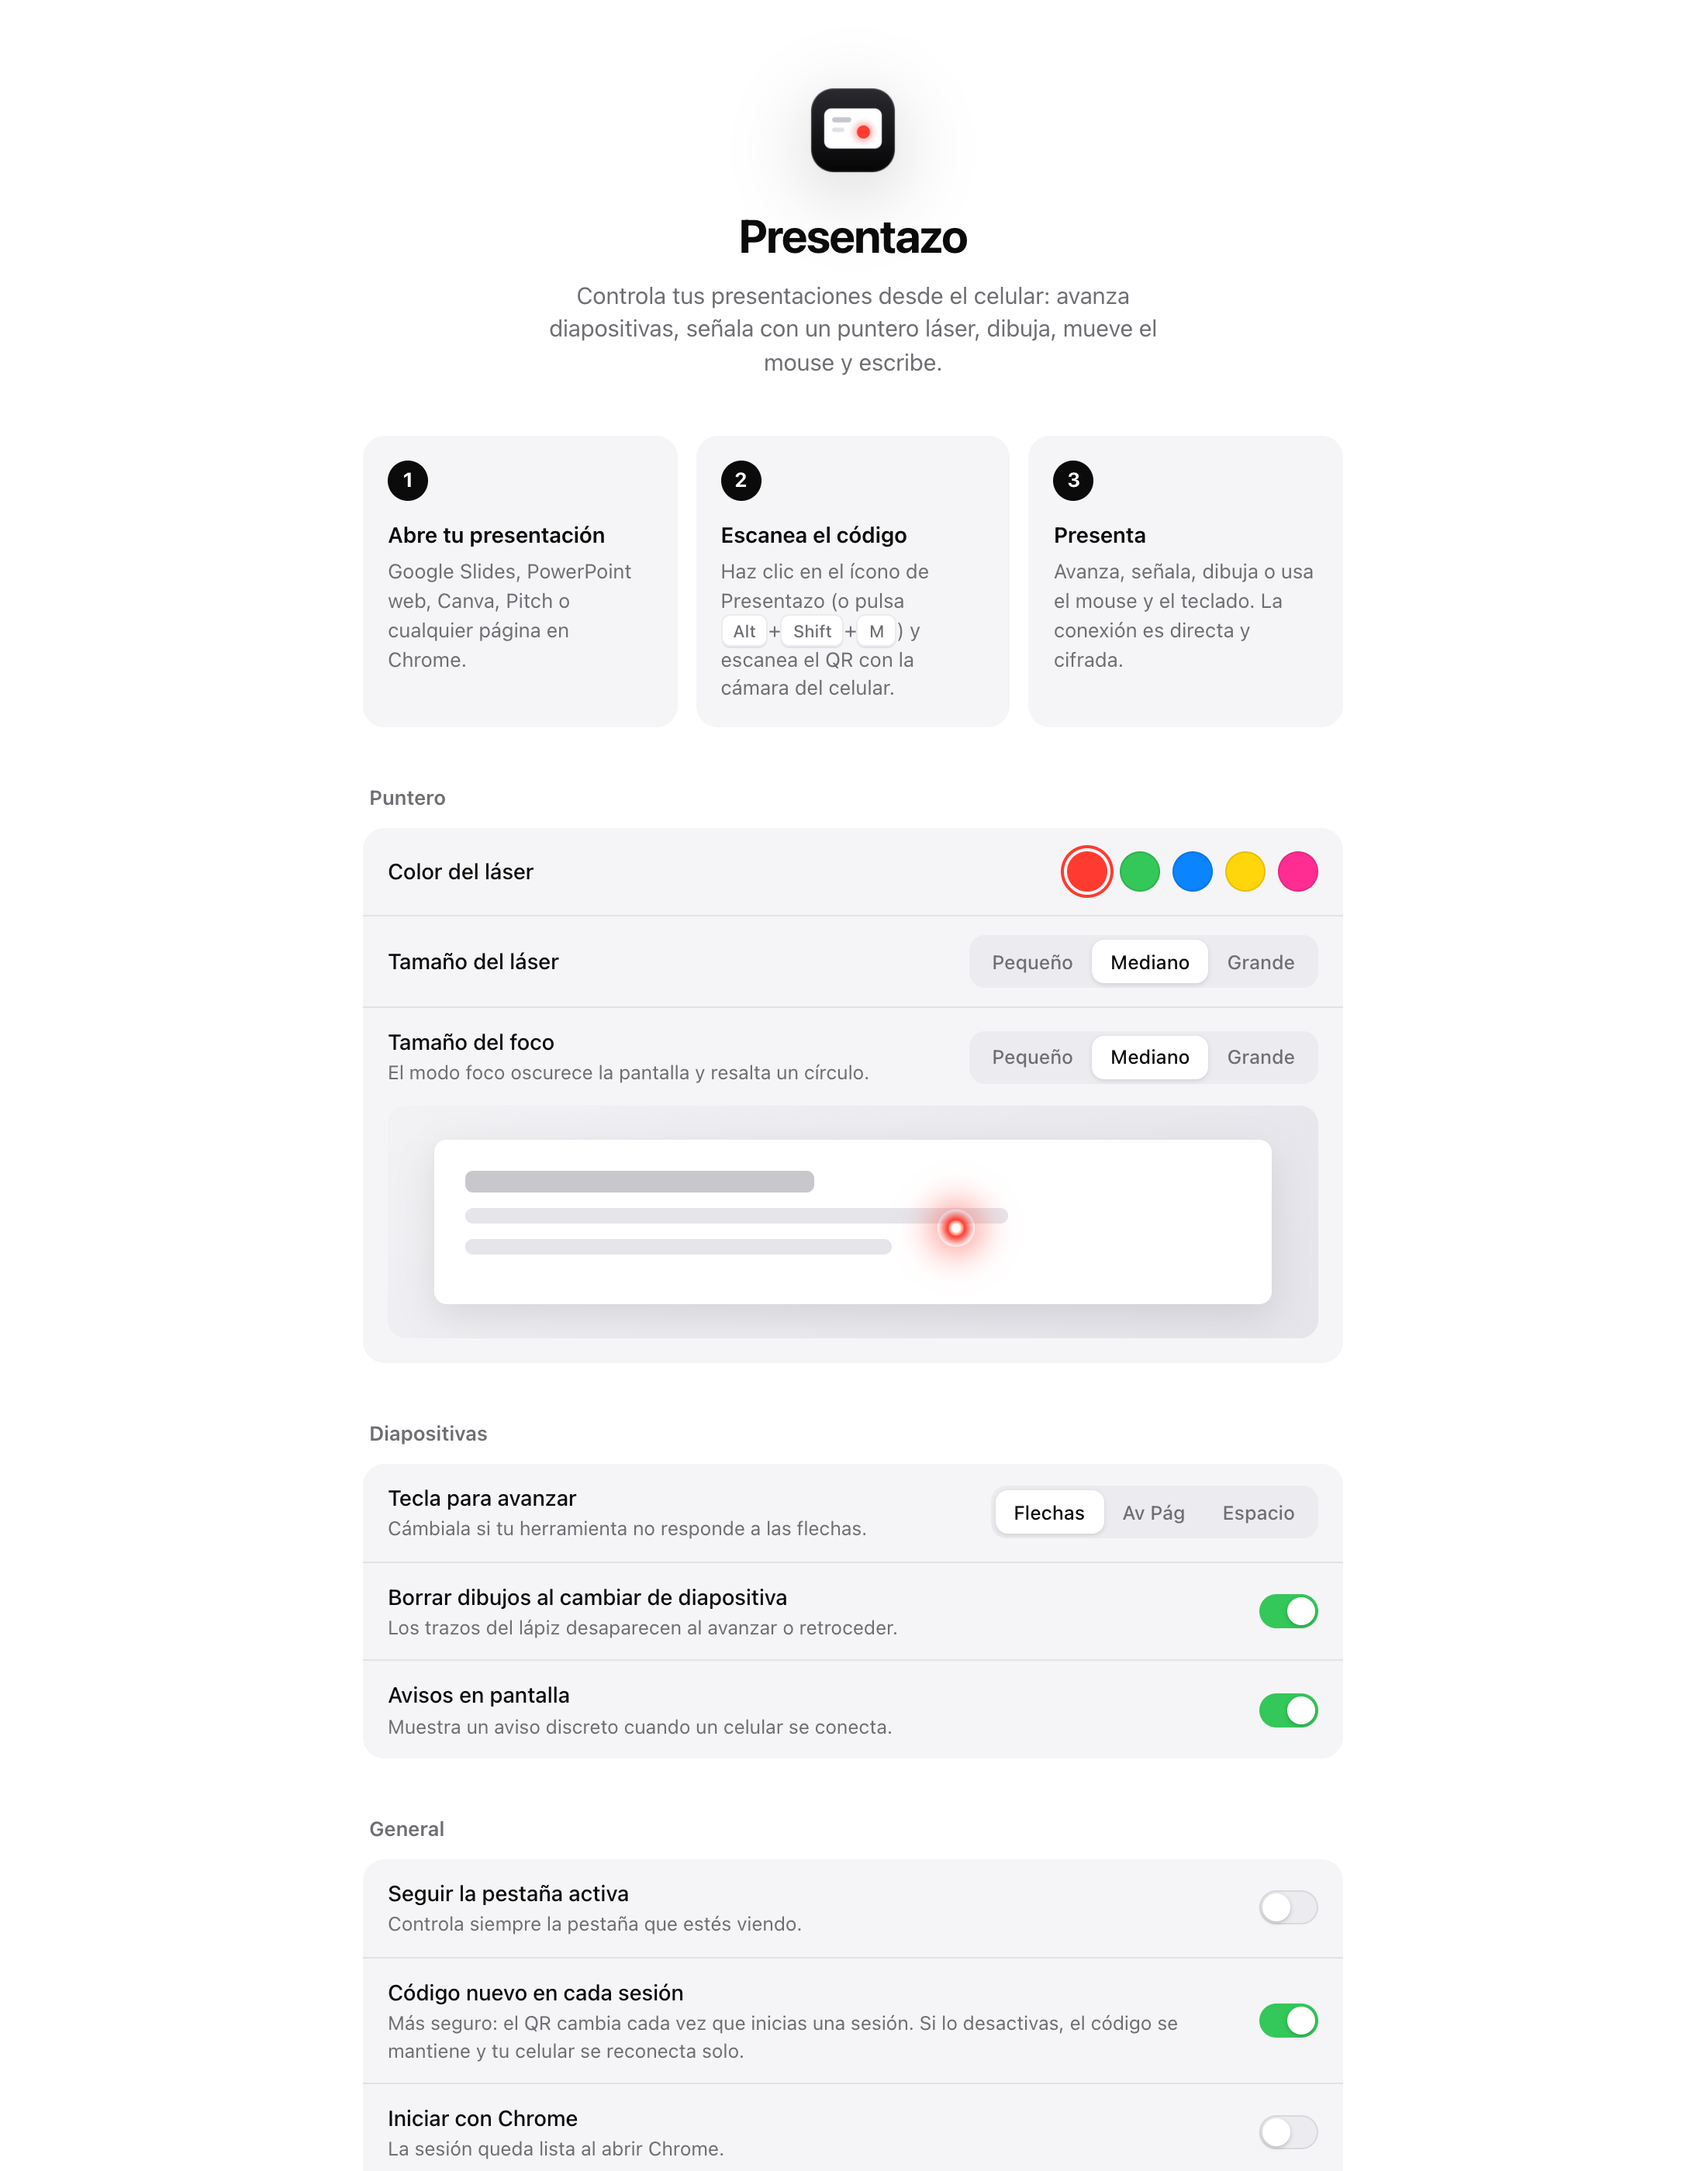
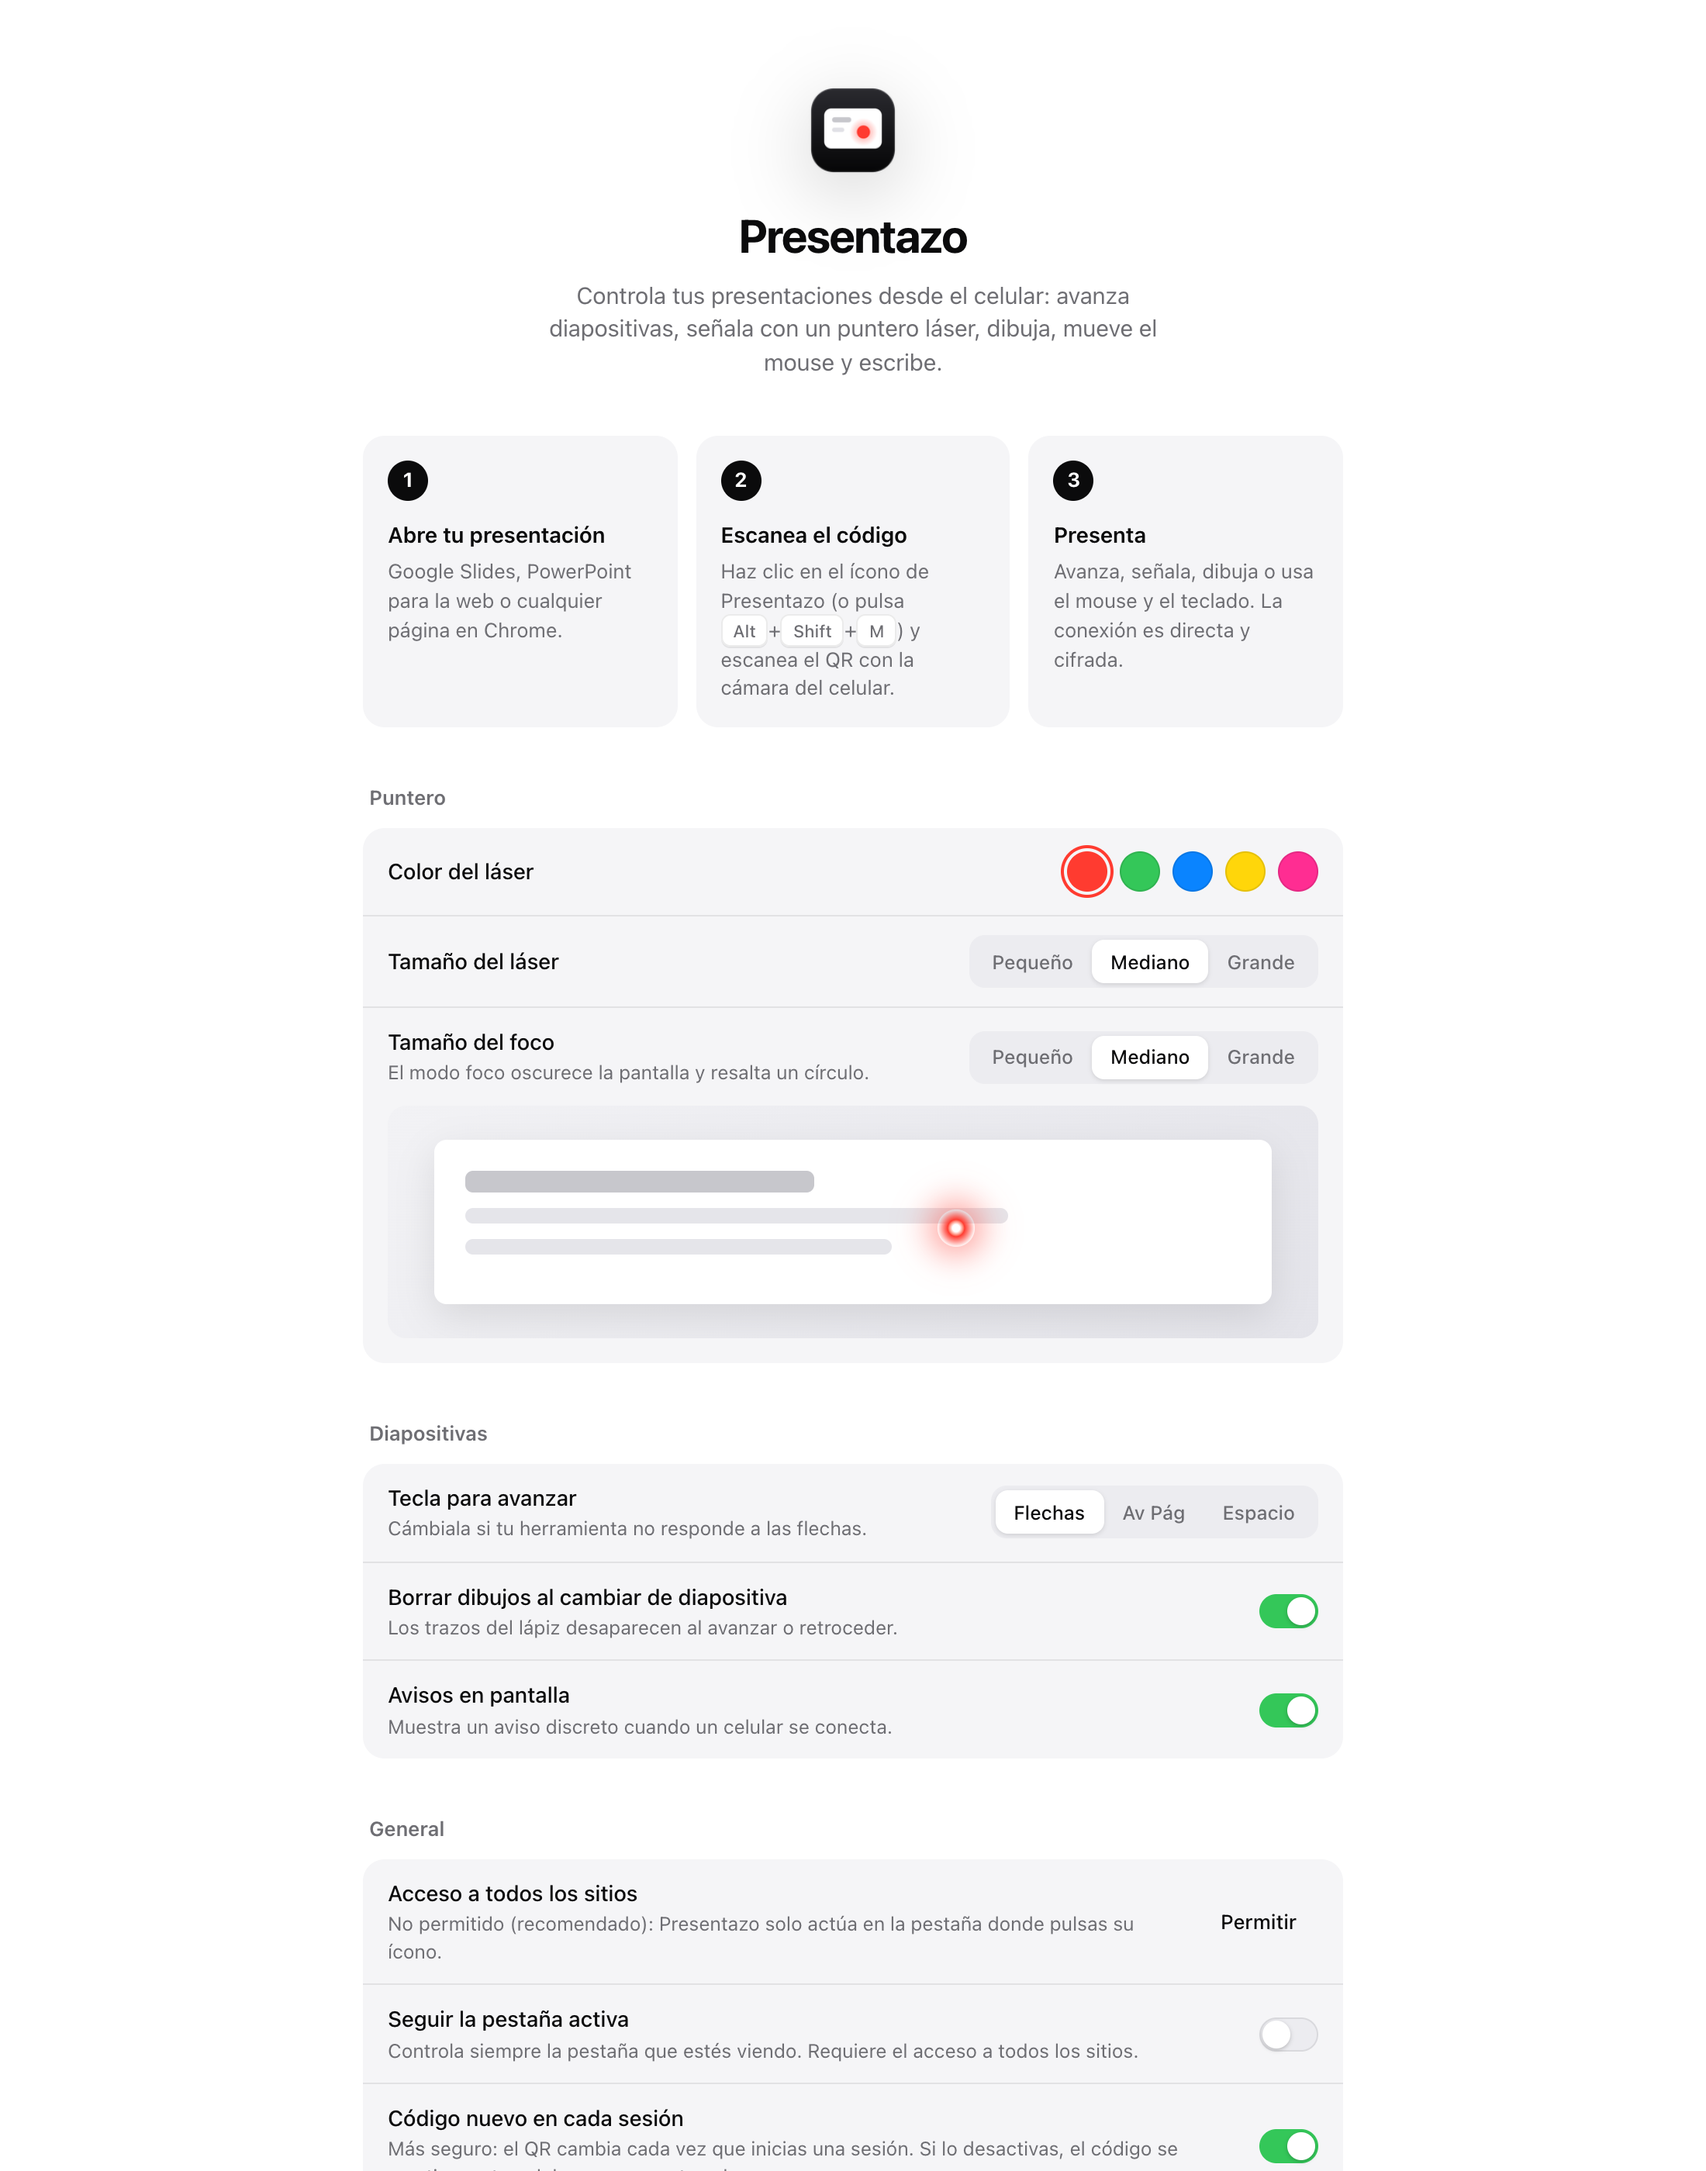
Chrome Web Store: quitar la lista de marcas (spam de palabras clave)
- Descripción: «Compatible con» pasa a una frase con dos ejemplos.
- Captura 5: etiquetas de ajustes en lugar de marcas.
- Bienvenida de la extensión con menos marcas; paquete 1.1.0 regenerado.
- Sitio web oficial: presentazo.com.

diff --git a/design/store/shot-5.html b/design/store/shot-5.html
@@ -2,9 +2,9 @@
 <body class="light"><div class="stage">
   <div style="position:absolute;left:72px;top:120px;width:470px">
     <div class="kicker"><img src="../../extension/icons/icon-128.png">Hecho para presentar</div>
-    <h1>Funciona con tus herramientas favoritas</h1>
-    <p class="sub">Cronómetro de la charla, pantalla negra, pantalla completa y la pantalla del celular siempre encendida.</p>
-    <div class="chips"><span>Google Slides</span><span>PowerPoint para la web</span><span>Canva</span><span>Pitch</span><span>Figma Slides</span><span>Gamma</span><span>reveal.js</span><span>Prezi</span></div>
+    <h1>Ajústalo a tu forma de presentar</h1>
+    <p class="sub">Elige el color y el tamaño del láser, la tecla para avanzar y cómo se conecta tu celular.</p>
+    <div class="chips"><span>Color del láser</span><span>Tamaño del foco</span><span>Tecla de avance</span><span>Código nuevo en cada sesión</span><span>Borrar dibujos al avanzar</span></div>
   </div>
   <div class="browser" style="left:590px;top:70px;width:620px;height:660px"><div class="bar"><span class="dot"></span><span class="dot"></span><span class="dot"></span><span class="url">Presentazo · Ajustes</span></div><img class="shot" src="captures/options.png"></div>
 </div></body></html>

diff --git a/store/LISTING.md b/store/LISTING.md
@@ -59,8 +59,8 @@ CÓMO FUNCIONA
 2. Haz clic en el ícono de Presentazo (o pulsa Alt+Shift+M) y escanea el código QR.
 3. El control se abre en el navegador del celular. ¡A presentar!
 
-COMPATIBLE CON
-Google Slides, PowerPoint para la web, Canva, Pitch, Figma Slides, Gamma, Prezi, reveal.js, Keynote en iCloud y cualquier página que use el teclado para avanzar.
+DÓNDE FUNCIONA
+Con las presentaciones que abres en Chrome y que avanzan con el teclado, como Google Slides o PowerPoint para la web.
 
 FUNCIONA EN CUALQUIER RED
 • Conexión directa entre tu celular y tu computadora, en la misma red Wi-Fi o desde datos móviles.
@@ -79,6 +79,7 @@ DETALLES CUIDADOS
 • Vibración al pulsar (en celulares compatibles).
 
 SÍGUENOS
+Sitio web: https://presentazo.com/
 Facebook: https://www.facebook.com/presentazo/
 Instagram: https://www.instagram.com/presentazo/
 TikTok: https://www.tiktok.com/@presentazo
@@ -113,11 +114,11 @@ Creado por Miguel Mogrovejo.
 
 | Campo | Valor |
 |---|---|
-| Sitio web oficial | `https://mjmc4498.github.io/mando/` |
+| Sitio web oficial | `https://presentazo.com/` |
 | URL de asistencia | `https://github.com/mjmc4498/mando/issues` |
 | Política de privacidad | `https://mjmc4498.github.io/mando/privacy.html` |
 
-> Las tres direcciones ya están publicadas. Conservan «mando» para que la versión 1.0.0 siga funcionando.
+> Las tres direcciones ya están publicadas. La asistencia y la privacidad conservan «mando» para que la versión 1.0.0 siga funcionando.
 
 ---
 
